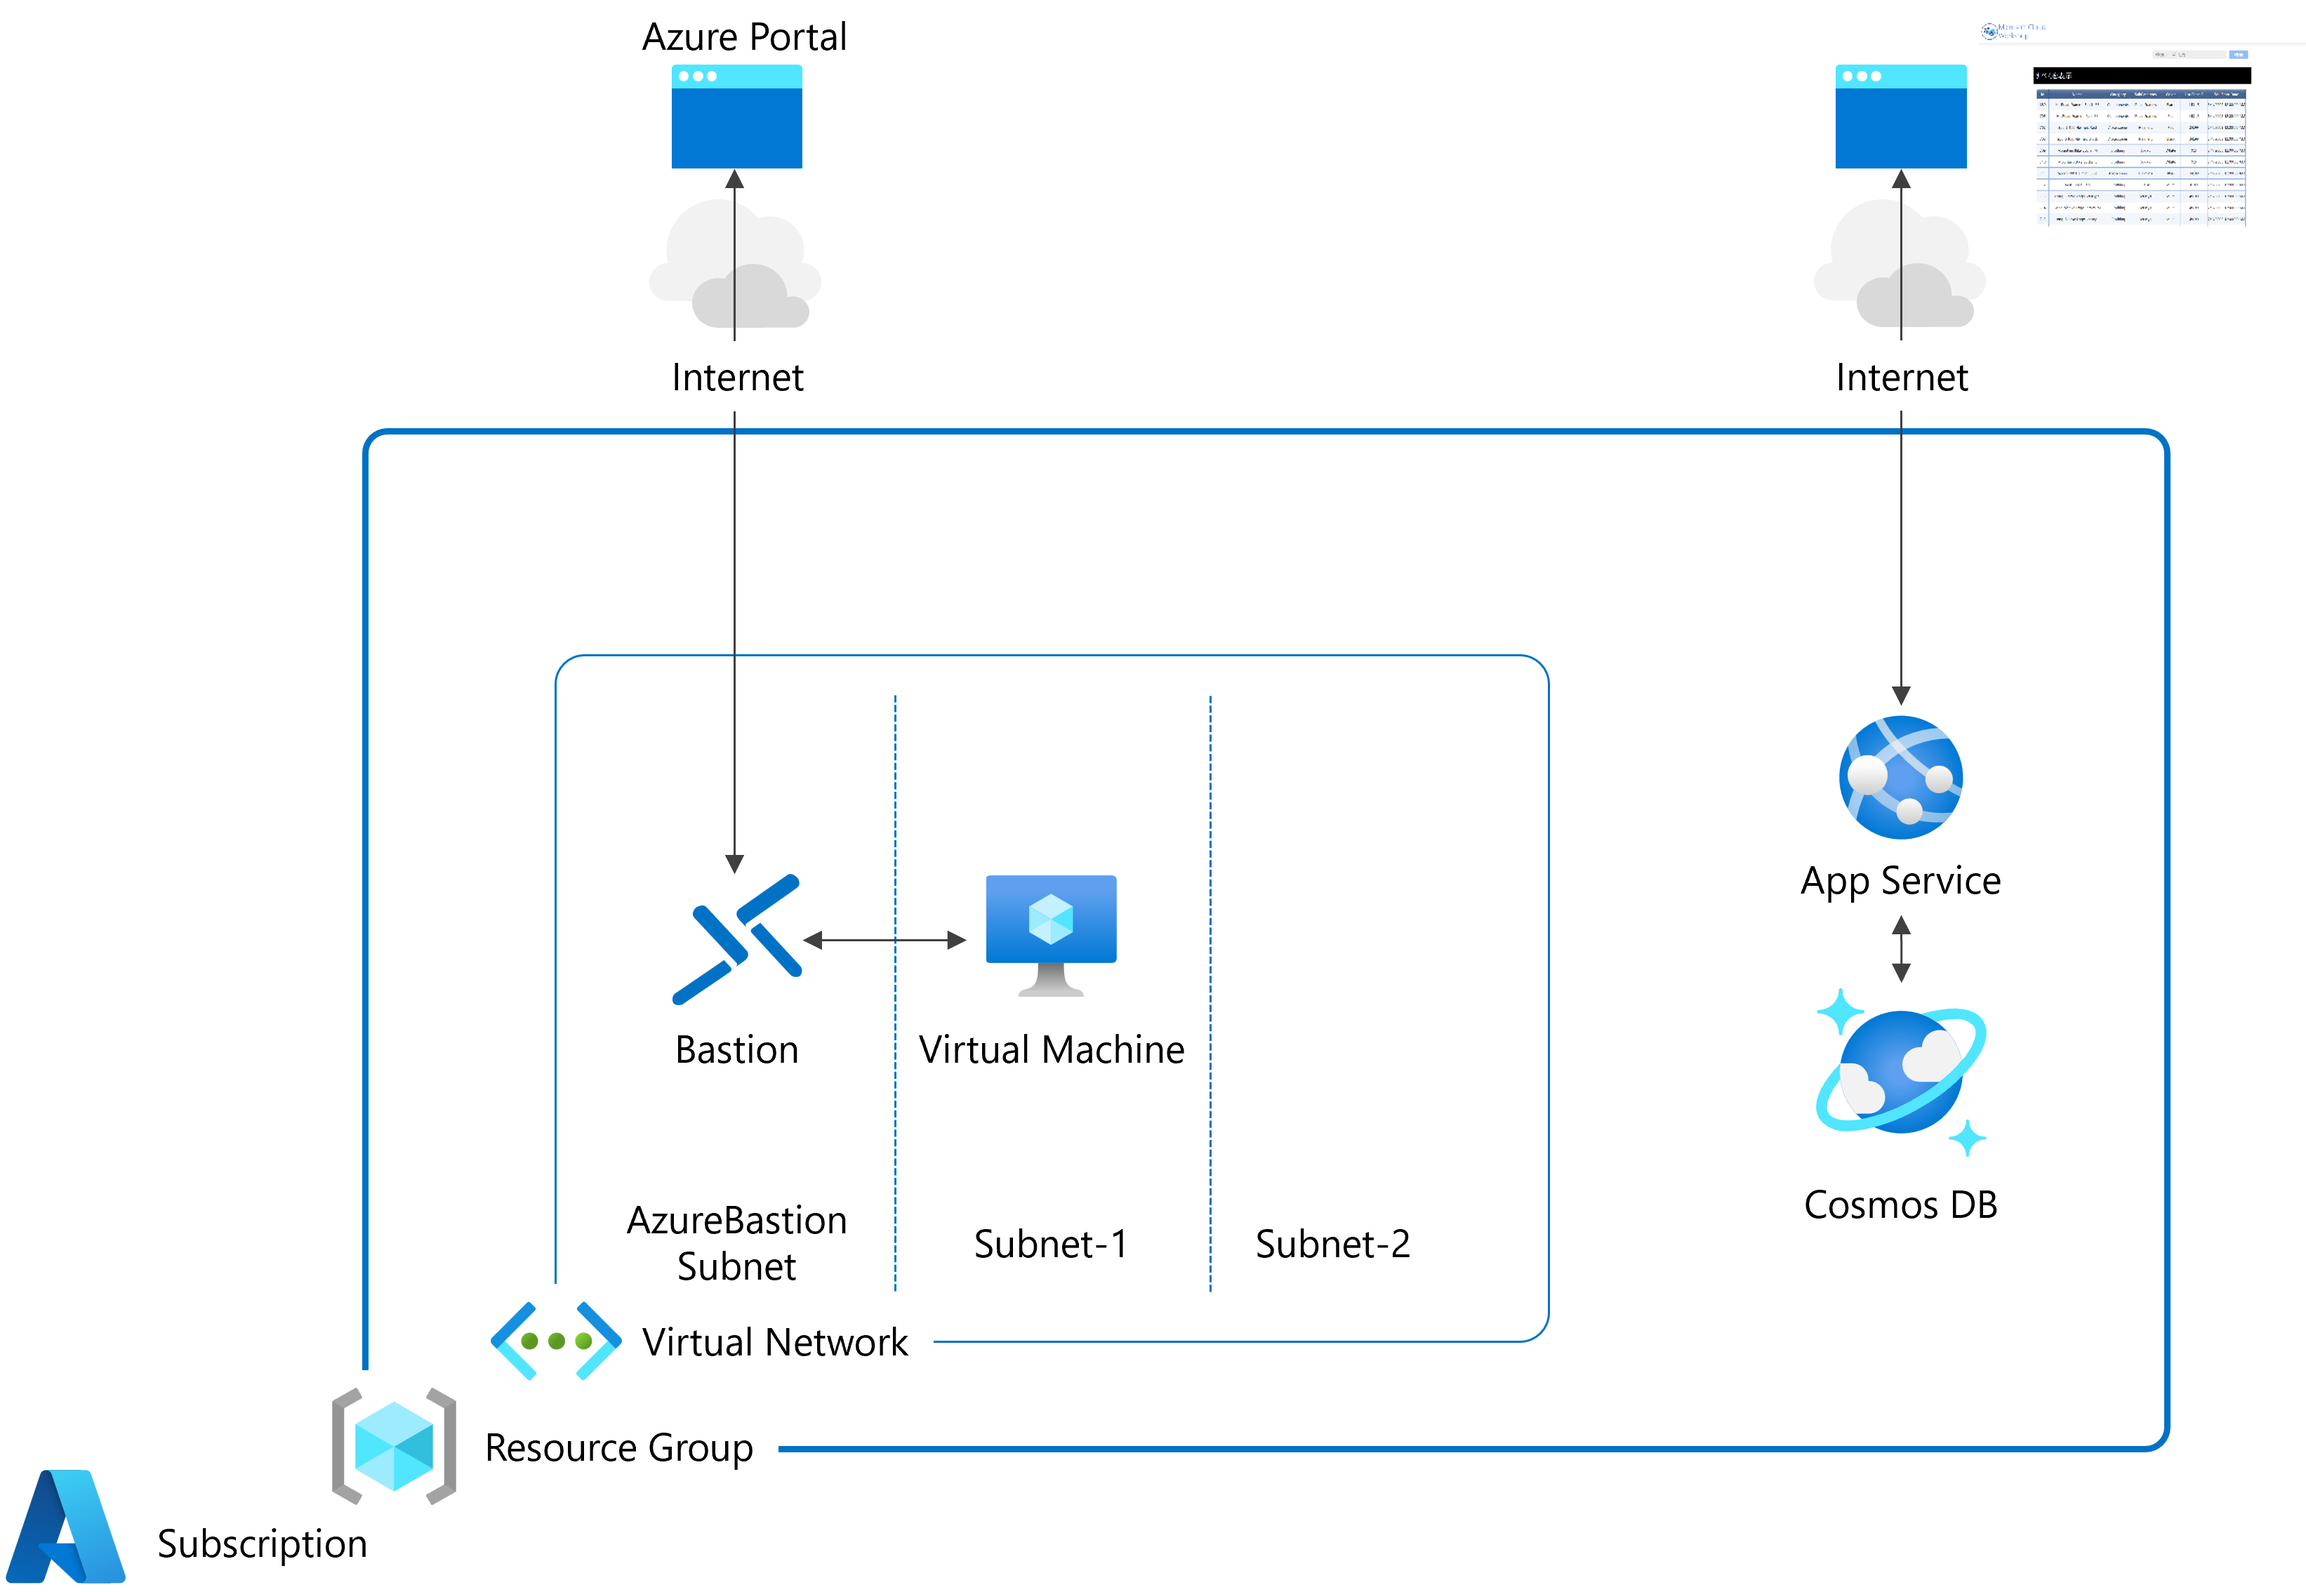
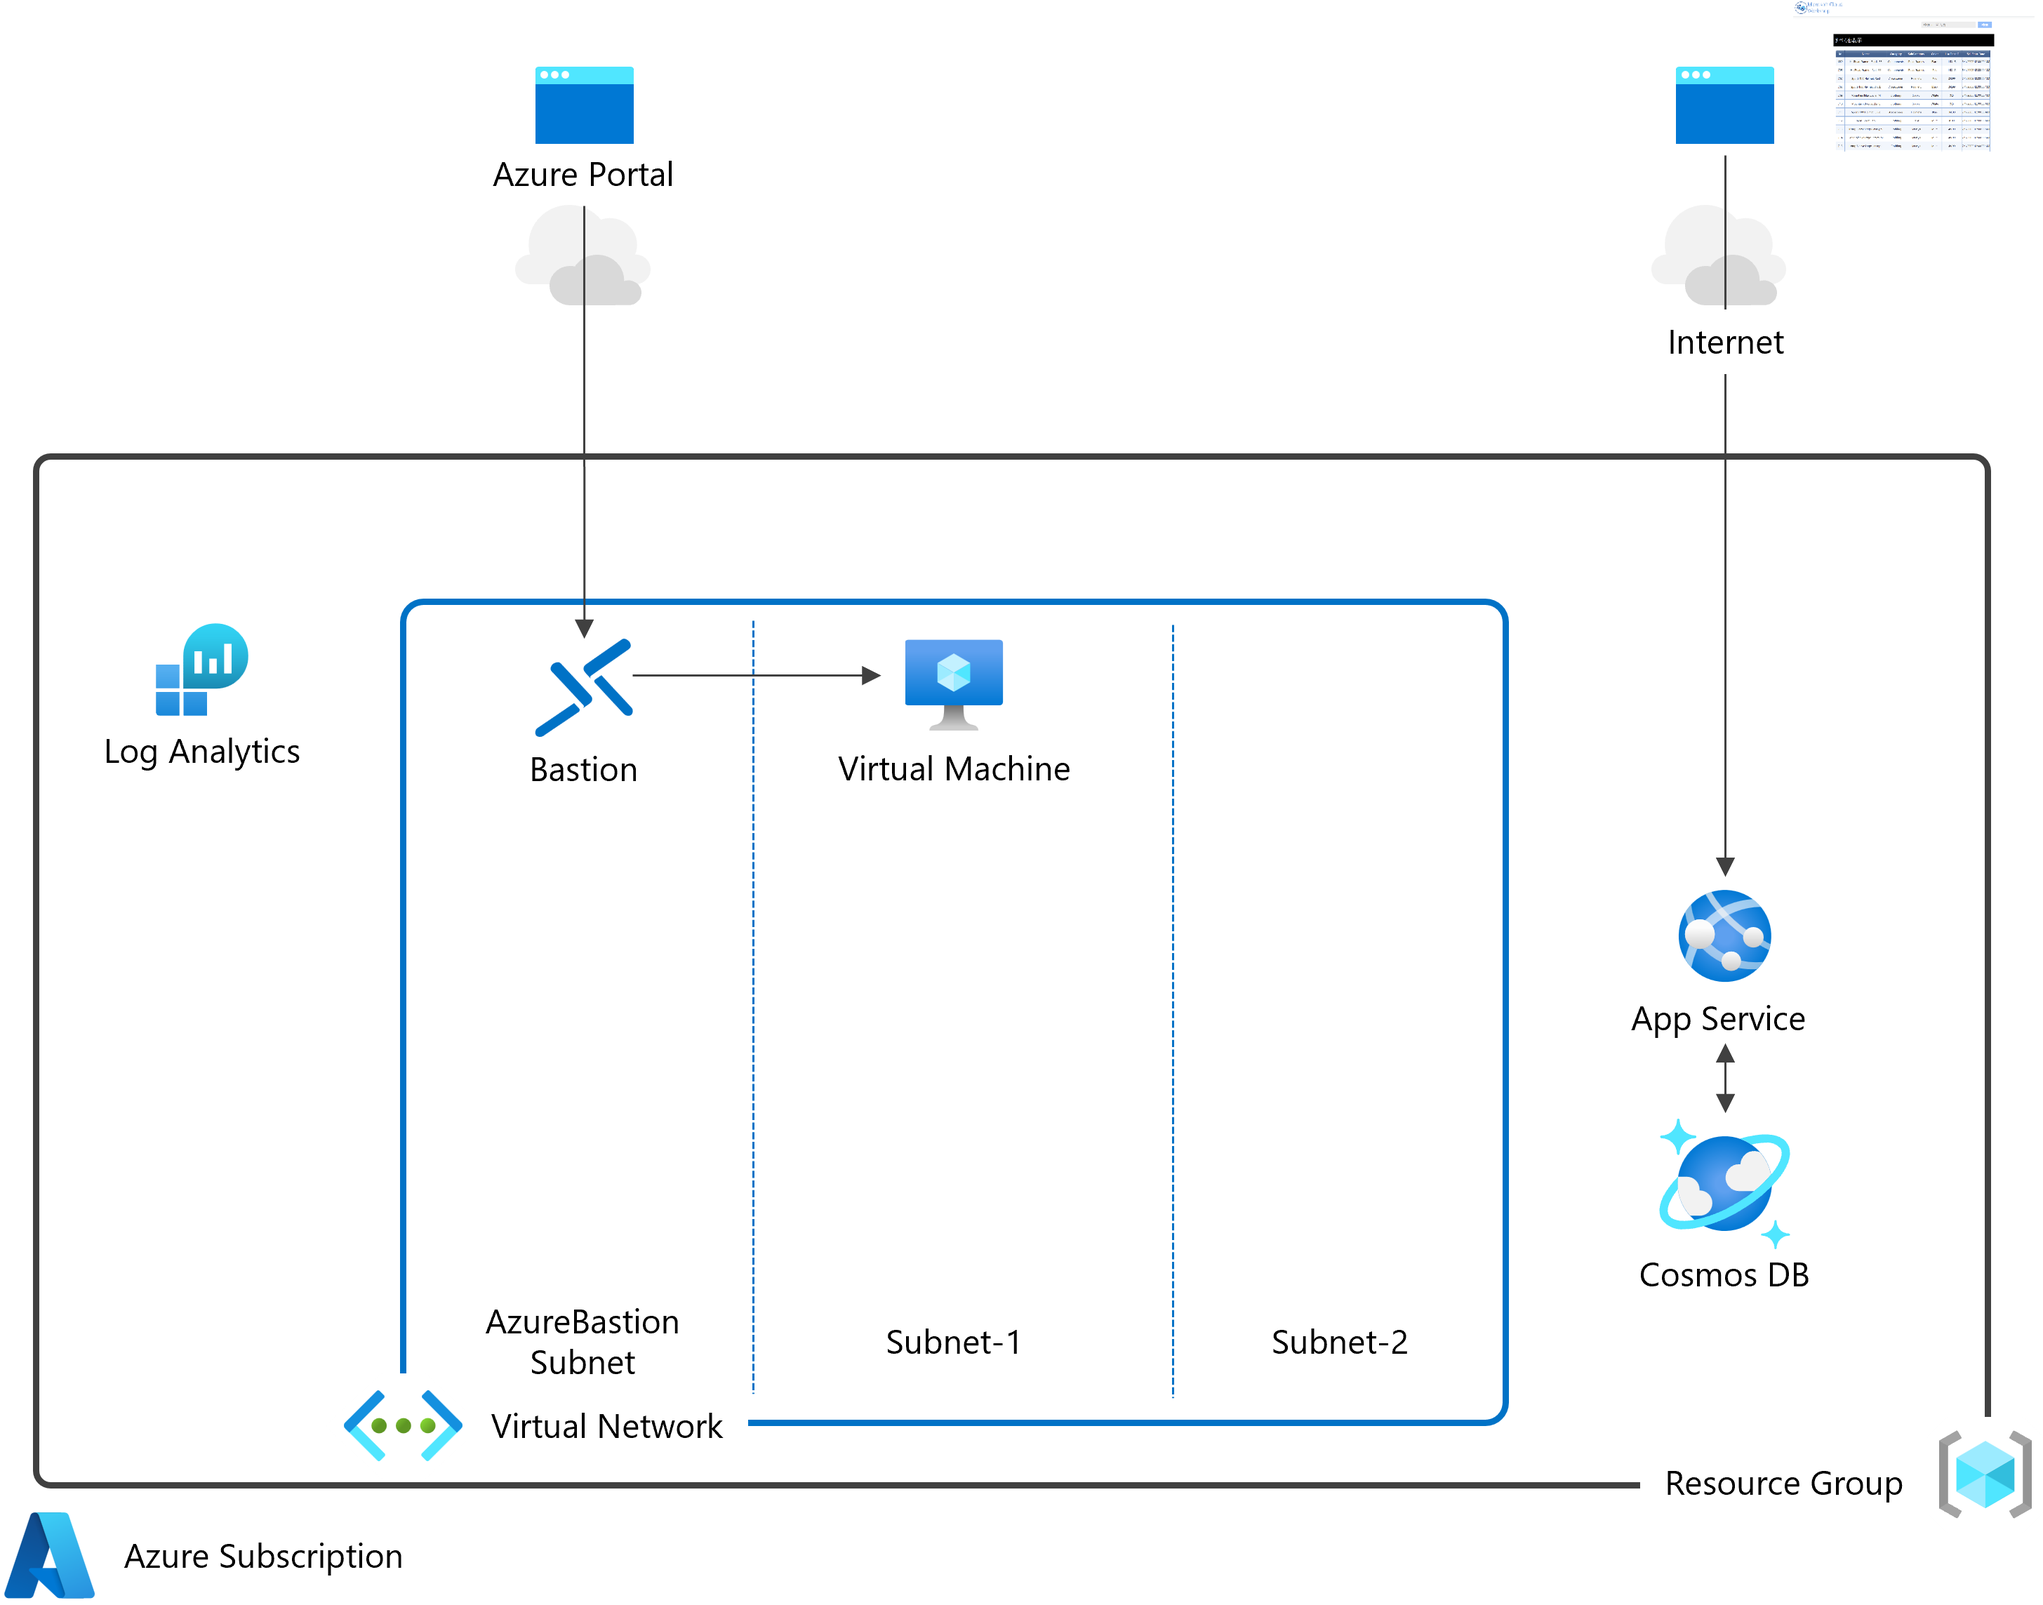
update Before the HOL.md

diff --git a/Before the HOL.md b/Before the HOL.md
@@ -41,6 +41,8 @@ June 2022
 
 - **cosmosAccountName**: Cosmos DB アカウント（一意に識別できる名前 / 長さ：3 ～ 44 / 有効な文字：小文字、数字、およびハイフン）
 
+- **logAnalyticsWorkspace**: Log Analytics ワークスペース名（長さ：4 ～ 63 / 有効な文字：英数字、およびハイフン）
+
 <br />
 
 ※事前にリソース グループの作成が必要
